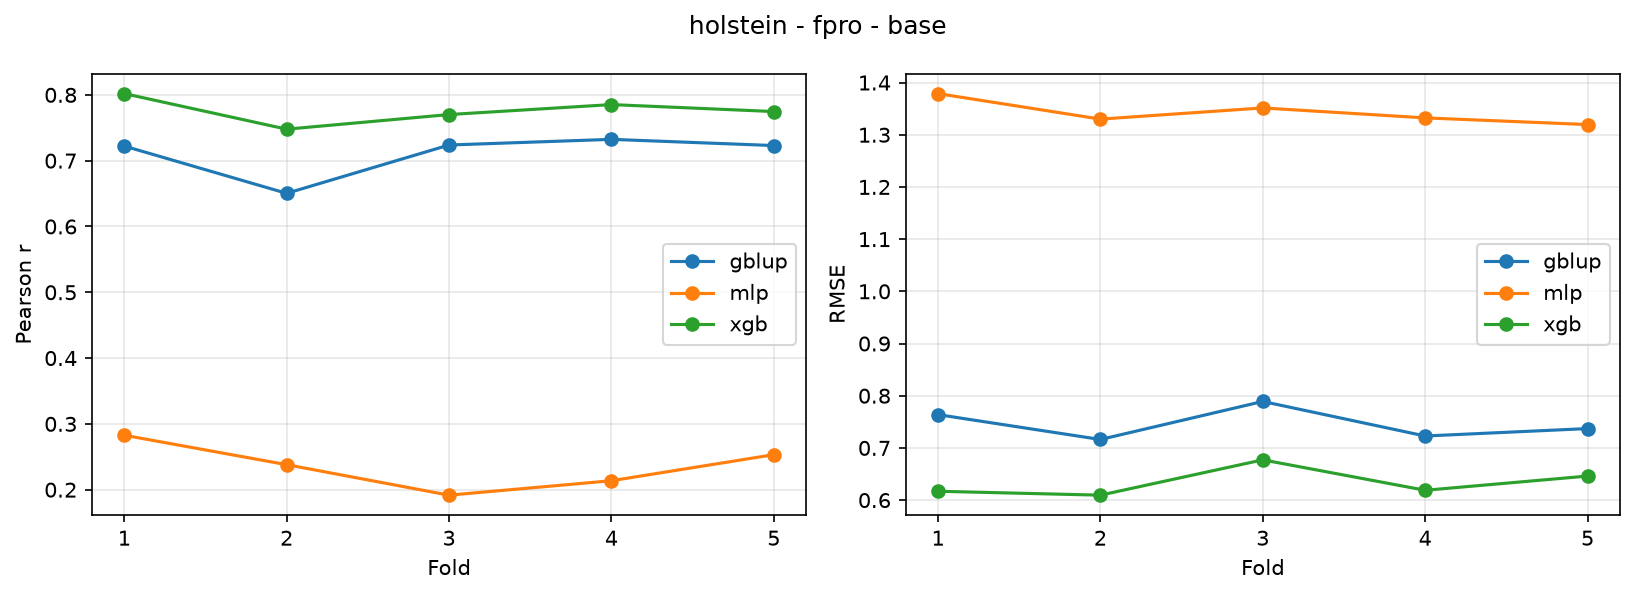
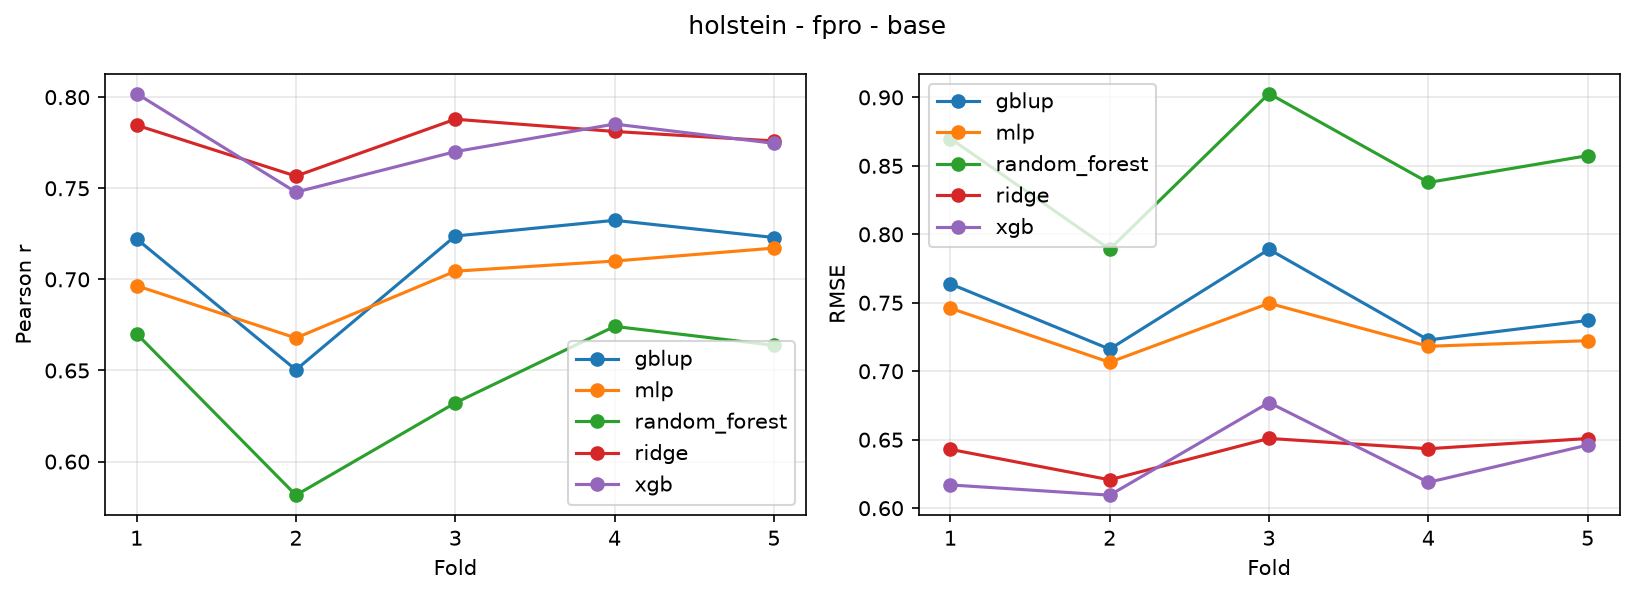
Completar E6 con comparacion GBLUP, tests y mejor modelo

diff --git a/src/evaluation/comparacion.py b/src/evaluation/comparacion.py
@@ -65,6 +65,26 @@ def resumir(datos):
         rmse_desv=("rmse", "std"),
         tiempo_medio_s=("tiempo_s", "mean"),
     )
+    
+    claves_escenario = ["escenario", "rasgo", "ruido"]
+
+    referencia = resumen.loc[
+        resumen["modelo"] == "gblup",
+        claves_escenario + ["r_media"],
+    ].rename(columns={"r_media": "r_gblup"})
+
+    resumen = resumen.merge(
+        referencia,
+        on=claves_escenario,
+        how="left",
+        validate="many_to_one",
+    )
+
+    resumen["diferencia_vs_gblup"] = (
+        resumen["r_media"] - resumen["r_gblup"]
+    )
+    resumen = resumen.drop(columns="r_gblup")
+
     return resumen.sort_values(claves).reset_index(drop=True)
 
 
@@ -89,6 +109,25 @@ def graficar(resumen, carpeta):
         ejes[0].set_xlabel("r de Pearson medio (mayor es mejor)")
         ejes[1].barh(grupo["modelo"], grupo["rmse_media"])
         ejes[1].set_xlabel("RMSE medio (menor es mejor)")
+
+        gblup = grupo[grupo["modelo"] == "gblup"]
+
+        if not gblup.empty:
+            r_gblup = gblup["r_media"].iloc[0]
+            rmse_gblup = gblup["rmse_media"].iloc[0]
+
+            ejes[0].axvline(
+                r_gblup, color="red", linestyle="--",
+                label="Referencia GBLUP",
+            )
+            ejes[1].axvline(
+                rmse_gblup, color="red", linestyle="--",
+                label="Referencia GBLUP",
+            )
+
+            for eje in ejes:
+                eje.legend()      
+        
         fig.suptitle(f"{escenario} - {rasgo} - {ruido}")
         fig.tight_layout()
         destino = carpeta / f"e6_{escenario}_{rasgo}_{ruido}.png"
@@ -168,6 +207,27 @@ def main():
     resumen = resumir(datos)
     salida = RESULTADOS / "resumen_e6.csv"
     resumen.to_csv(salida, index=False, float_format="%.6f")
+
+    
+    claves = ["escenario", "rasgo", "ruido"]
+
+    indices = resumen.groupby(claves)["r_media"].idxmax()
+    mejores = resumen.loc[
+        indices,
+        claves + [
+            "modelo", "r_media", "rmse_media",
+            "diferencia_vs_gblup",
+        ],
+    ]
+
+    mejores = mejores.sort_values(claves)
+    mejores.to_csv(
+        RESULTADOS / "mejor_modelo.csv",
+        index=False,
+        float_format="%.6f",
+    )
+
+
     graficos = graficar(resumen, RESULTADOS / "figures")
     graficos += graficar_folds(datos, RESULTADOS / "figures")
     

diff --git a/tests/test_comparacion.py b/tests/test_comparacion.py
@@ -1,0 +1,39 @@
+
+"""Pruebas para el resumen de comparacion E6."""
+
+import pandas as pd
+
+from src.evaluation.comparacion import resumir
+
+
+def test_diferencia_vs_gblup():
+    """Comprueba medias, folds y diferencia contra GBLUP."""
+    filas = []
+
+    for fold in range(1, 6):
+        for modelo, r, error in [
+            ("gblup", 0.6, 0.9),
+            ("ridge", 0.7, 0.8),
+        ]:
+            filas.append({
+                "modelo": modelo,
+                "rasgo": "fpro",
+                "escenario_n": 5024,
+                "ruido": "base",
+                "fold": fold,
+                "r_pearson": r,
+                "rmse": error,
+                "tiempo_s": 1.0,
+            })
+
+    resumen = resumir(pd.DataFrame(filas))
+    resumen = resumen.set_index("modelo")
+
+    assert resumen.loc["ridge", "n_folds"] == 5
+    assert abs(resumen.loc["ridge", "r_media"] - 0.7) < 1e-9
+    assert abs(
+        resumen.loc["ridge", "diferencia_vs_gblup"] - 0.1
+    ) < 1e-9
+    assert abs(
+        resumen.loc["gblup", "diferencia_vs_gblup"]
+    ) < 1e-9

diff --git a/docs/contexto/chayna.md b/docs/contexto/chayna.md
@@ -1,0 +1,25 @@
+# E6 — Comparación de modelos
+
+## Metodología
+Se compararon cinco modelos (GBLUP, Ridge, XGBoost, MLP y Random Forest) en seis escenarios, utilizando cinco folds de validación cruzada.
+
+La evaluación considera el promedio y la desviación estándar de Pearson r y RMSE. También se calculó la diferencia de Pearson medio respecto a GBLUP, utilizado como referencia.
+
+## Resultados principales
+Según el Pearson medio:
+
+- **Ridge:** mayor valor en Holstein fpro y mkg.
+- **MLP:** mayor valor en Holstein scs y simulaciones n125 y n500.
+- **GBLUP:** mayor valor en simulación n2000.
+
+Los modelos seleccionados por escenario se encuentran en `results/mejor_modelo.csv`.
+
+## Interpretación de Ridge y GBLUP
+Ridge y GBLUP están estrechamente relacionados: ambos utilizan regularización en modelos lineales, aunque pueden trabajar con representaciones y penalizaciones diferentes.
+
+Por tanto, la ventaja observada de Ridge no debe atribuirse simplemente a que sea un modelo de Machine Learning, sino que puede depender de la regularización y configuración utilizadas.
+
+## Limitaciones
+Las comparaciones son descriptivas. Las diferencias de Pearson medio no demuestran por sí solas superioridad estadística. También debe verificarse que todos los modelos se hayan evaluado con las mismas particiones.
+
+En GBLUP se utilizó una heredabilidad fija de 0.3, sin optimizarla por rasgo, lo que puede influir en sus resultados.
